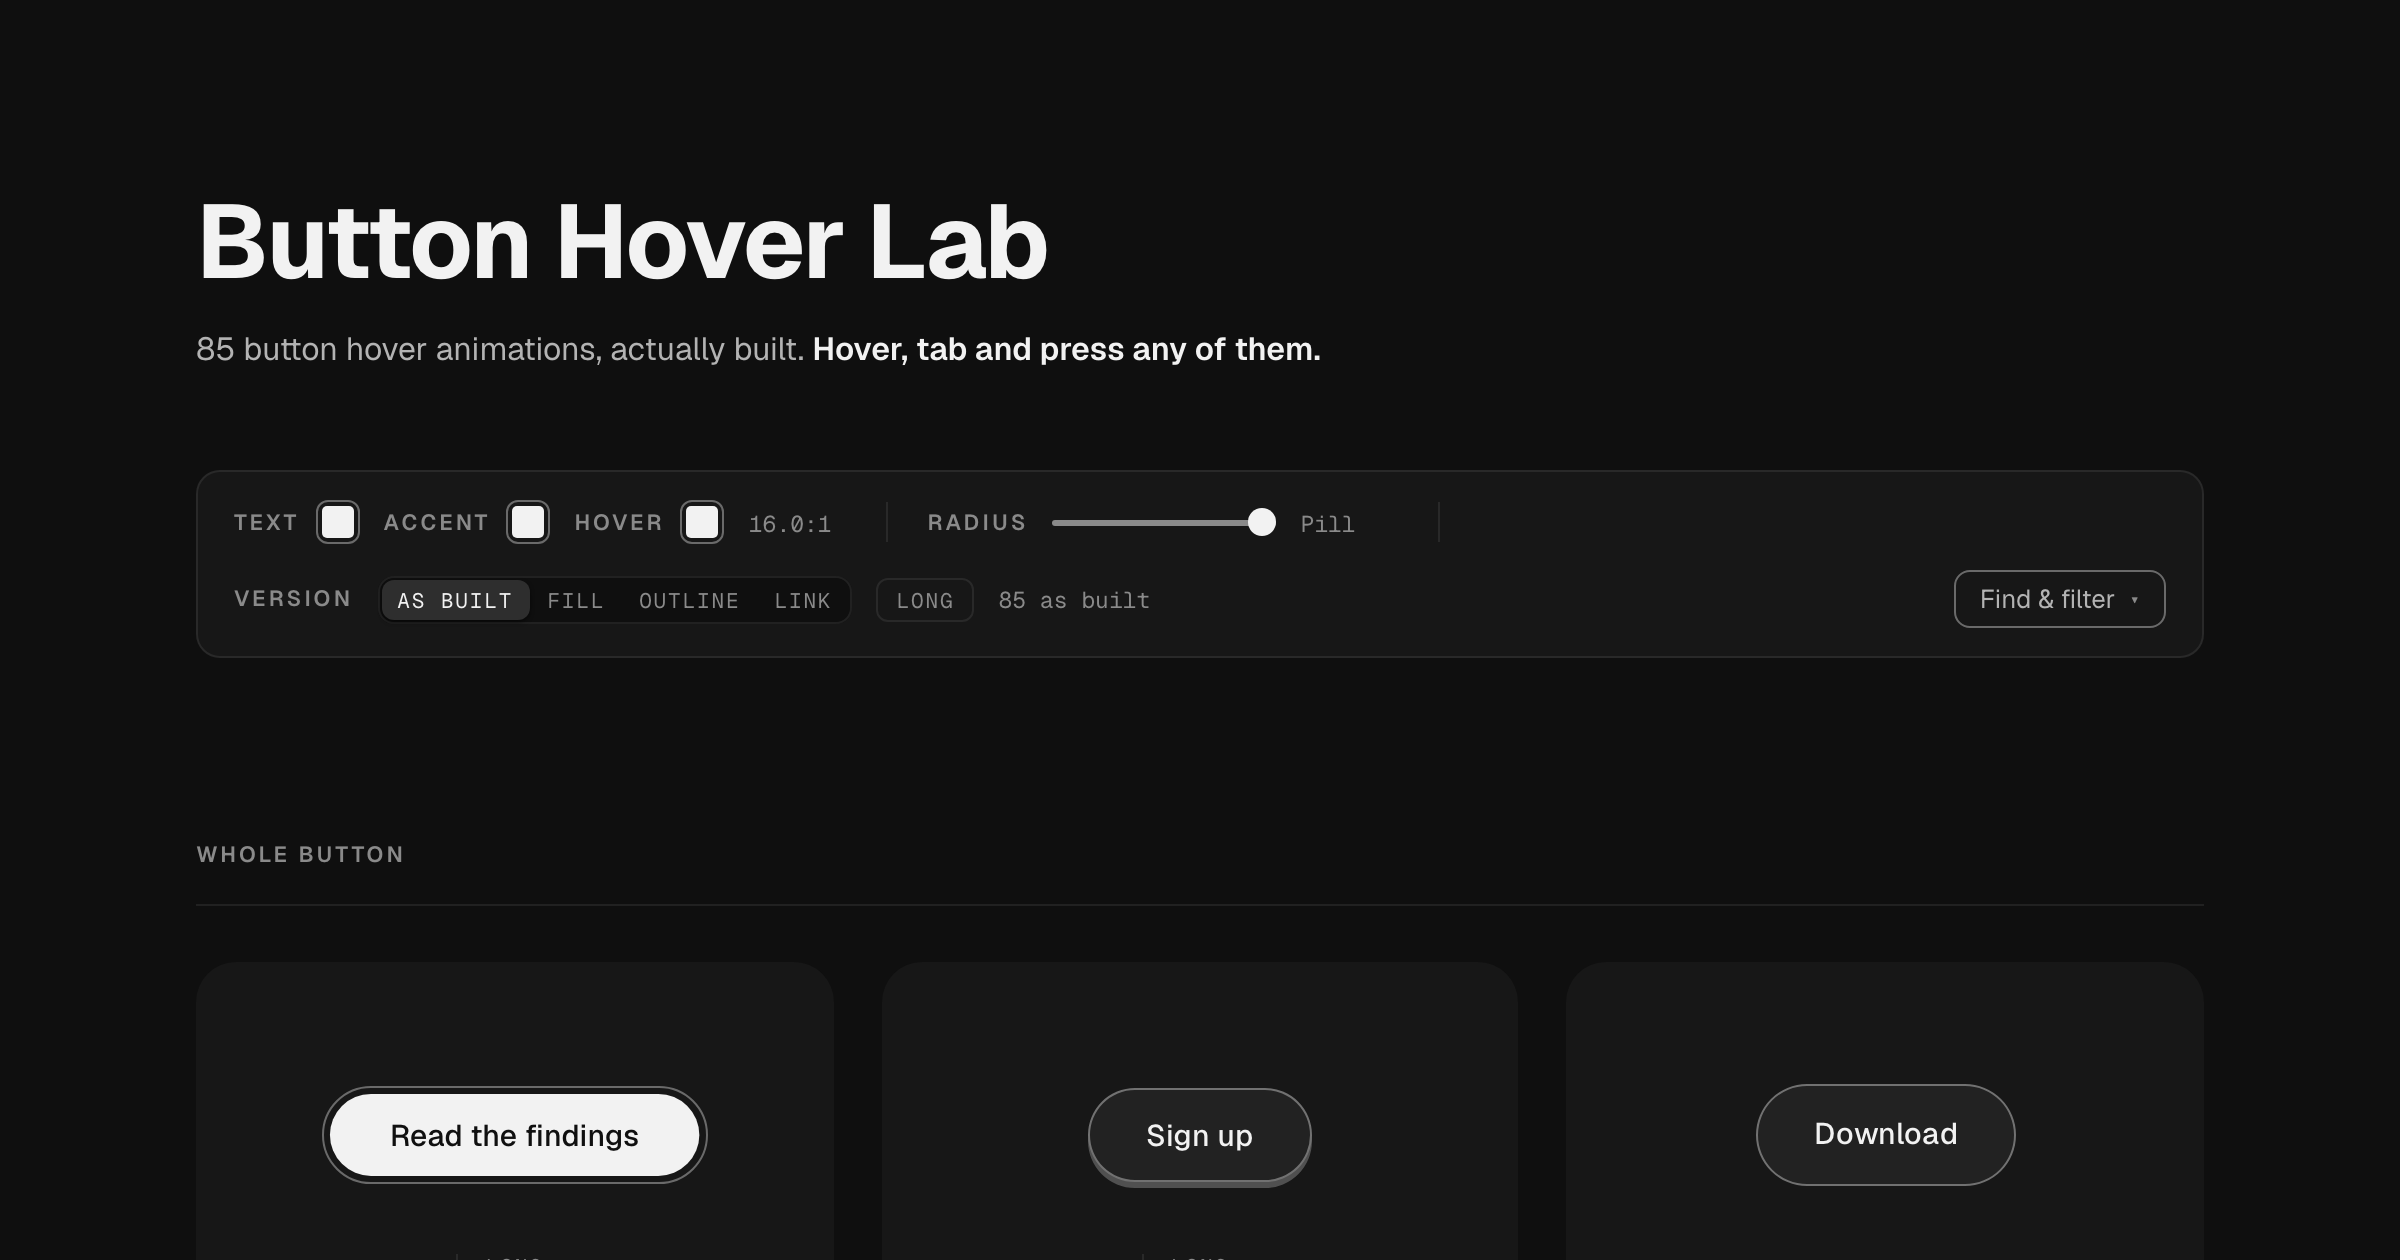
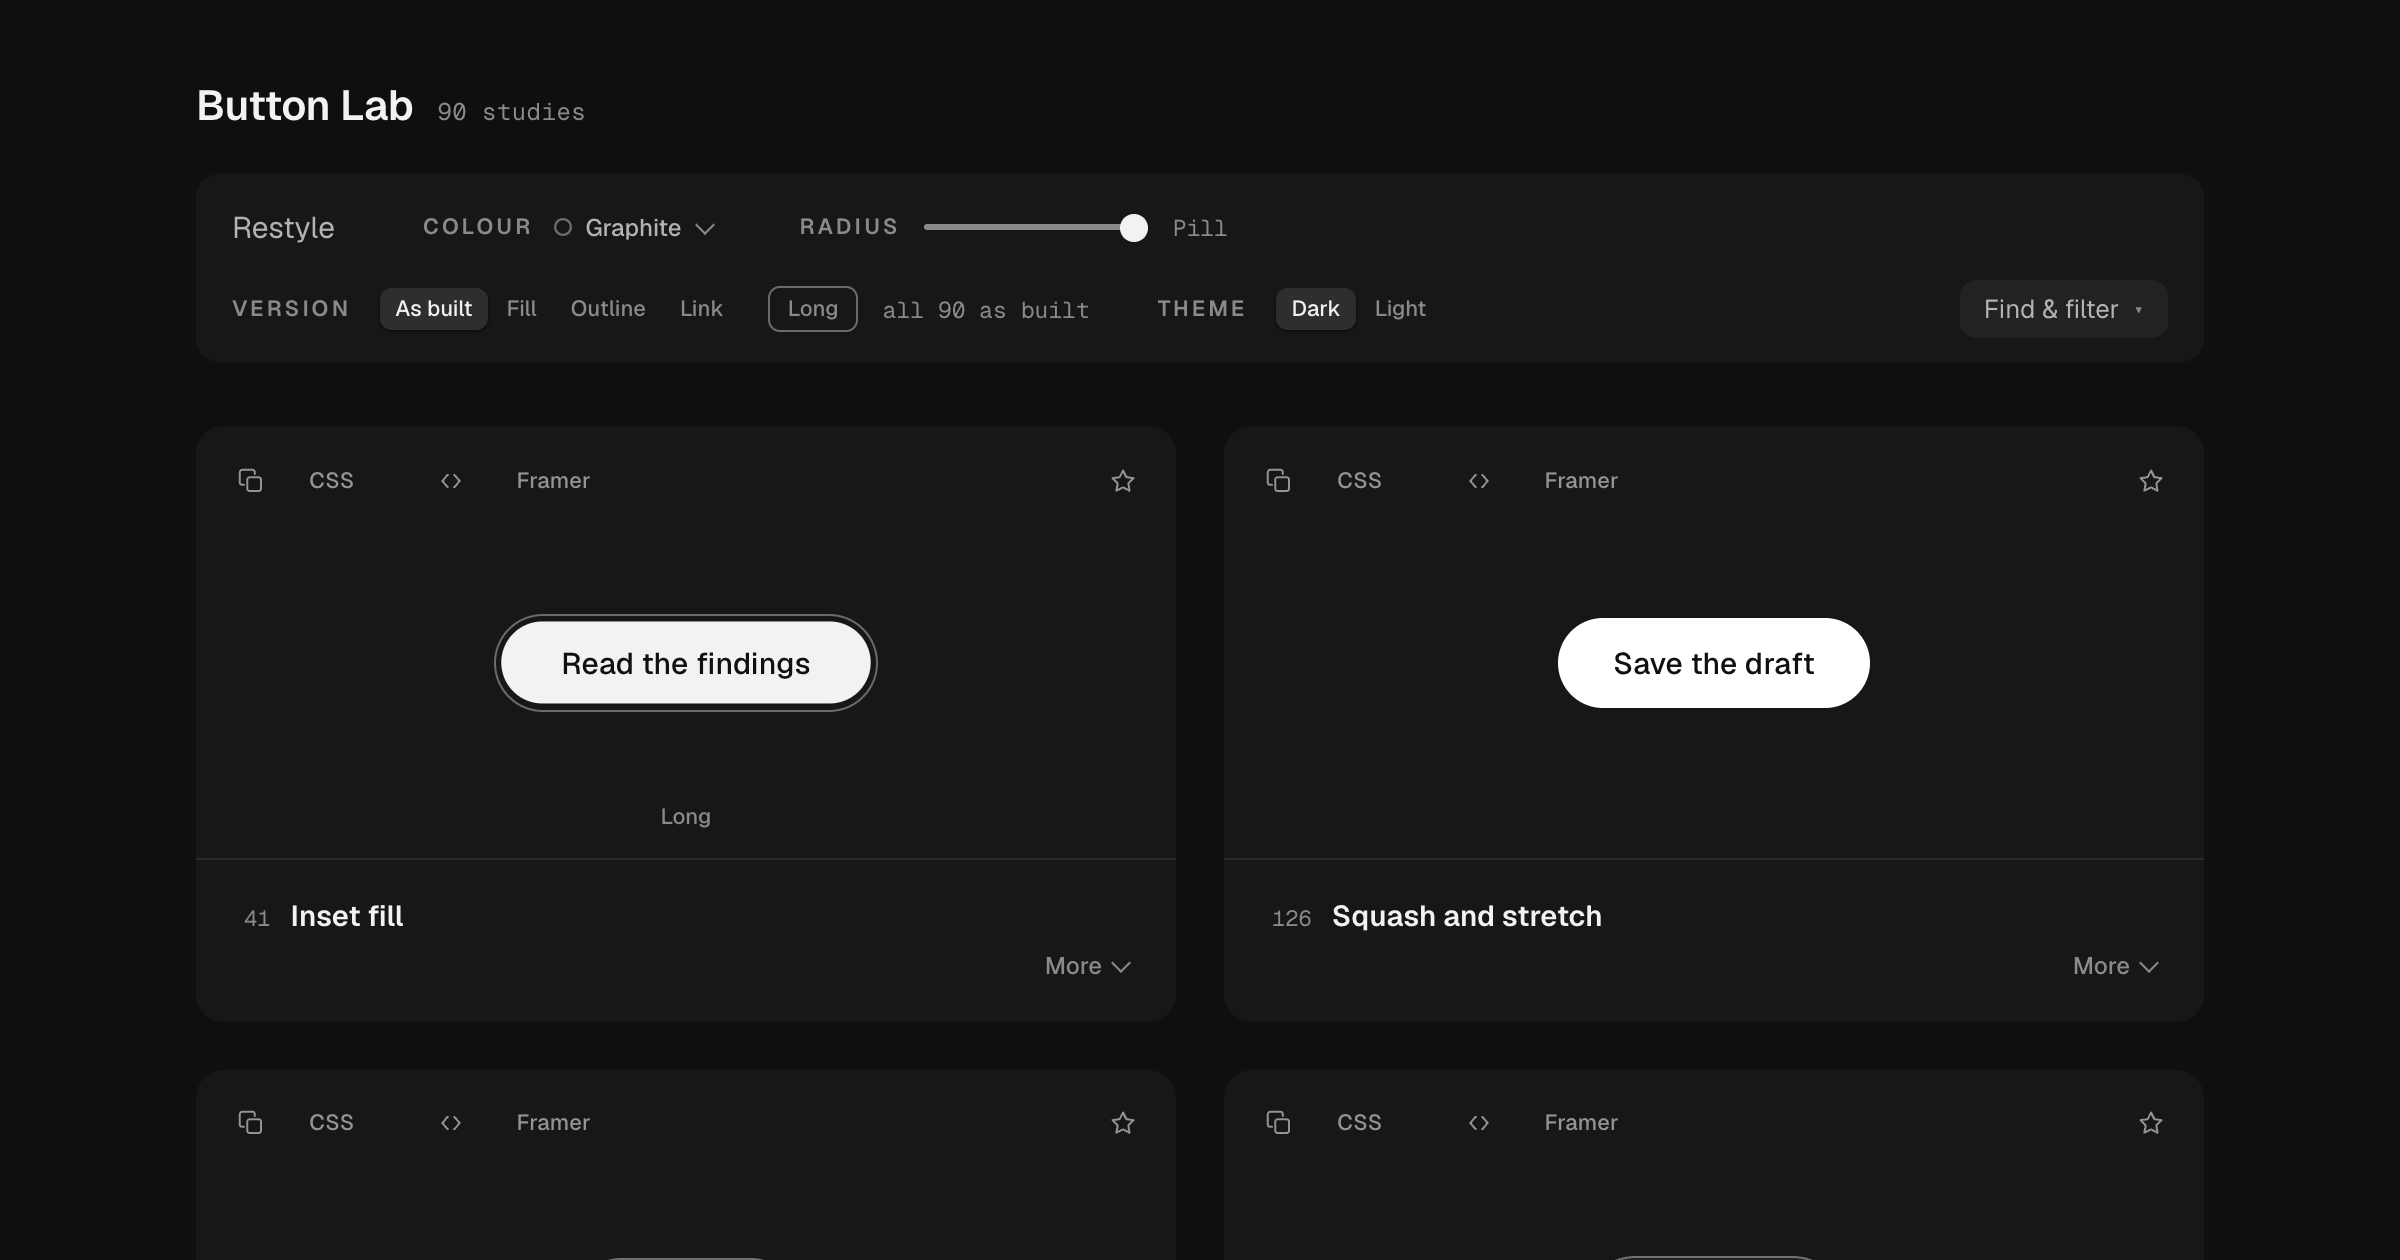
The Arqé QA fixes: the finishing of a pass that landed in 581f898
⚠ Most of this pass is NOT in this commit. A parallel session ran
`git add index.html` at 11:56 and swept the QA fixes into 581f898, whose
message names only the ripple work. What landed there, for the record:

  the dark --well (it composited to its own panel at 1.000 once the walls
  moved to --bg-0); .copy/.fav at --ink-mid .8 rather than --ink-low .34,
  which measured 1.68:1 dark and 1.60:1 light on a control carrying text;
  the card radius 20 → 14; the version segment back to one row and Long
  back to an outline instead of a fifth seated chip; the search glyph and
  the ⌘K binding; the fold handle moved to the right of the panel header;
  the section rows' chevron; the panel's one left inset; jump margins cut
  from 120/160 to 24 at ≥1360, where the toolbar they cleared is a wall;
  the empty state spanning the feed; the name kept on screen when the
  panel folds; mono 56→26 and uppercase 30→9 of the chrome's text nodes.

Here: the ⌘K chip's width cap belonged to the wrapper, not the input — it
sat 370px past the end of the field below 1360. The placeholder is a size
down from the value, because the glyph and the chip take 73 of the wall's
208px and it ran under the chip.

og.png reshot. The old one showed the deleted hero, a count of 85, the
three-swatch control and the section name «WHOLE BUTTON».

README: the count is ninety, not ninety-one — 110 retired into 09 while
this pass ran. The section table still named the twenty-one-era groups and
[…]

diff --git a/index.html b/index.html
@@ -29,8 +29,12 @@
 <meta property="og:title" content="Button Lab">
 <meta property="og:description" content="A specimen page of button hover animations, each one built and hoverable. Monochrome, layout-stable, interruptible, with notes on porting each to Framer.">
 <meta property="og:url" content="https://granqvistsanna-web.github.io/button-hover-lab/">
-<!-- The unfurl card: the header and the first three stages, captured at 1200x630@2x.
-     Reshoot it when the fold changes — it is a screenshot, not a design. -->
+<!-- The unfurl card: the masthead, the Restyle toolbar and the first two stages,
+     captured at 1200x630@2x — the toolbar shape rather than the wall, because
+     that is the layout most readers arrive in. Reshot 2026-08-30 for the console
+     redesign and the rename; the one it replaced still showed the deleted hero,
+     a count of 85, the old three-swatch control and the section name «WHOLE
+     BUTTON». Reshoot it when the fold changes — it is a screenshot, not a design. -->
 <meta property="og:image" content="https://granqvistsanna-web.github.io/button-hover-lab/og.png">
 <meta property="og:image:width" content="2400">
 <meta property="og:image:height" content="1260">
@@ -1562,7 +1566,7 @@
        search field a thousand pixels wide invites a sentence rather than the
        one word this looks for. In the panel the header is 228px and the cap
        never bites. */
-    flex:1 1 190px; min-width:0; max-width:440px;
+    flex:1 1 auto; min-width:0; width:100%;
     padding:10px 12px; border-radius:var(--r-sm);
     border:0; background:var(--bg-2);
     color:var(--ink-hi); font:400 15px/1.2 var(--font-ui);
@@ -1572,10 +1576,11 @@
      <input> has no ::before to give one to. Inline SVG as a data URI: two
      shapes, smaller than the request it would otherwise cost, and it takes
      currentColor's job from the fill written into the URI per theme below. */
-  .rail-find{position:relative; display:flex; flex:1 1 190px; min-width:0}
+  .rail-find{position:relative; display:flex; flex:1 1 190px; min-width:0;
+    max-width:440px}
   .rail-q{background-image:var(--find-glyph); background-repeat:no-repeat;
-    background-position:12px 50%; background-size:15px 15px;
-    padding-left:35px; padding-right:46px}
+    background-position:11px 50%; background-size:15px 15px;
+    padding-left:32px; padding-right:41px}
   .rail-k{
     position:absolute; right:8px; top:50%; transform:translateY(-50%);
     pointer-events:none;
@@ -1584,7 +1589,10 @@
   }
   .rail-q:hover + .rail-k{background:var(--bg-4)}
   .rail-q:focus + .rail-k{opacity:0}
-  .rail-q::placeholder{color:var(--ink-faint)}
+  /* The hint is a size down from the value. In the 288px wall the field is
+     208px and the glyph and the ⌘K chip take 73 of it, so the placeholder at
+     15px ran 6px under the chip; the typed value keeps its own size. */
+  .rail-q::placeholder{color:var(--ink-faint); font-size:13.5px}
   .rail-q:hover{background:var(--bg-3)}
   .rail-q:focus-visible{outline:2px solid var(--ink-low); outline-offset:1px}
 
@@ -1954,7 +1962,7 @@
        The top inset clears the title fixed above it. */
     .rail-head{display:grid; grid-template-columns:minmax(0,1fr) auto;
       align-items:center; gap:10px; padding:82px var(--pad-panel) 20px}
-    .rail-head .rail-q{max-width:none}
+    .rail-head .rail-find{max-width:none}
     .rail-head .fav-only{grid-column:1 / -1; justify-self:start}
     .rail-fold{
       display:grid; width:30px; height:30px; place-items:center; padding:0;
@@ -2240,7 +2248,7 @@
            can be positioned against the input rather than against the row. -->
       <div class="rail-find">
         <input class="rail-q" id="rail-q" type="search" autocomplete="off"
-               placeholder="Name, word or number">
+               placeholder="Name, word, number">
         <!-- Written by the page: ⌘ on a Mac, Ctrl everywhere else. aria-hidden
              because the shortcut is announced by nothing and read by eye. -->
         <kbd class="rail-k" aria-hidden="true">⌘K</kbd>

diff --git a/README.md b/README.md
@@ -1,6 +1,6 @@
 # Button Lab
 
-Ninety-one button hover animations, actually built. Hover, tab and press all of them.
+Ninety button hover animations, actually built. Hover, tab and press all of them.
 
 **→ [Open the lab](https://granqvistsanna-web.github.io/button-hover-lab/)**
 
@@ -16,7 +16,7 @@ script — and **`</>`** hands you the same effect as a Framer code component.
 
 ## House rules
 
-Every one of the ninety-one obeys all five:
+Every one of the ninety obeys all five:
 
 | | |
 |---|---|
@@ -24,7 +24,7 @@ Every one of the ninety-one obeys all five:
 | **Interruptible** | Hover out halfway and the animation turns smoothly from wherever it is — no waiting for it to finish. |
 | **In one way, out another** | The exit takes its own path — and its own clock, one rung down the ladder. |
 | **Reduced motion** | Everything falls back to plain colour and opacity changes. |
-| **Five durations, no more** | 83 / 133 / 200 / 300 / 450 ms — frame-quantised at 60 fps, declared as tokens, never improvised. The ladder governs the ninety-one effects; the toolbar chrome runs on the design system's own `--t-fast`. |
+| **Five durations, no more** | 83 / 133 / 200 / 300 / 450 ms — frame-quantised at 60 fps, declared as tokens, never improvised. The ladder governs the ninety effects; the toolbar chrome runs on the design system's own `--t-fast`. |
 
 And, without exception: no layout shift — every button's own box stays identical to three
 decimals, and in the group cards the row does too, the one deliberate exception being
@@ -39,16 +39,19 @@ Each group names the part of the button that performs, because that is what you 
 before you arrive: a text link has no fill to move, a button with no icon cannot relay an
 arrow, and an effect that reads the row needs a row to put it in.
 
+One word each, on one axis — the part of the button that performs:
+
 | | |
 |---|---|
-| **Whole button** | it lifts, scales, leans, settles, or answers a press |
-| **Fill** | a fill arrives or leaves |
-| **Border, corner and rule** | an outline draws, a radius changes, a rule moves |
-| **Label** | the word moves as one unit |
-| **Label, per character** | the word is split and the parts move separately |
-| **Icon** | an arrow, dot, caret, needle or dash does the work |
-| **Material and light** | the button looks like a thing — glass, metal, letterpress, grain |
-| **Buttons in a row** | siblings react to the one you are on |
+| **Plate** | the whole surface answers at once — it scales, lifts, leans, or argues with the pointer about its own weight |
+| **Fill** | a fill arrives or leaves; what differs is where from, and whether you see it travel |
+| **Edge** | the outline works and the plate holds still — an underline, a rule, a drawn border, a corner that changes shape |
+| **Label** | the word performs, as one piece and then split into its characters |
+| **Mark** | a small mark beside the label carries the gesture — an arrow travels, an icon redraws, a caret points |
+| **Material** | the button behaves like a physical thing, and hover changes the material rather than the layout |
+| **State** | these answer the click rather than the pointer, and report on it in place |
+| **Row** | siblings react to the one you are on, so the row is the unit |
+| **Compound** | two of the mechanisms above on one curve — the pairing is the study |
 
 They replaced twenty-one lettered sections, which recorded where each study was written
 rather than what it does. Half of those names were provenance — *the challengers*, *from a
@@ -68,13 +71,16 @@ cannot quietly lose a study the next time it runs.
 Search, the derived facets and the starred shortlist do the rest of the narrowing — and the
 shortlist persists in your browser.
 
-The same toolbar carries four global settings that restyle all ninety-one at once:
-**text**, **accent**, **hover** and a **button radius**. All are written as custom properties
-on the root element, which is also where the copy buttons resolve from, so a snippet copied
-with colours set carries those colours rather than the defaults they replaced.
+The **Restyle** panel on the right carries the global settings, and they restyle all ninety
+at once. Colour is a 2x2 — **text** and **button**, each at rest and on hover — plus a row of
+palettes that set all four together; then a **button radius**, a **version**, and the page
+**theme**. All are written as custom properties on the root element, which is also where the
+copy buttons resolve from, so a snippet copied with colours set carries those colours rather
+than the defaults they replaced.
 
-Three colours, because a monochrome page hides the fact that `--ink` was doing three jobs at
-once. **Text** is the label at rest, and everything that belongs to the label — card 57's
+Four cells, because a monochrome page hides the fact that `--ink` was doing three jobs at
+once — and because the fourth, the colour of the label once the hover fill has arrived under
+it, used to be computed and could not be chosen at all. **Text** is the label at rest, and everything that belongs to the label — card 57's
 underline goes with it, not with the fill that arrives behind it. **Accent** is the fill and
 the mark: `--ink` and `--accent` together. **Hover** is whatever arrives when you point at
 something. Set all three the same and the page behaves exactly as it did when there was one
@@ -90,7 +96,7 @@ has always been. The fit walks lightness in **either** direction for exactly thi
 label on a near-white accent has to go down, and the one-way walk the single-primary toolbar
 used would have sent it to white on white.
 
-**Hover reaches about twenty of the ninety-one, and that is the page's own thesis
+**Hover reaches about twenty of the ninety, and that is the page's own thesis
 showing through rather than a gap.** These effects are geometric: most of them paint their
 arriving layer at rest and animate `transform`, `clip-path` or `height`, so the colour that
 arrives is the same declaration as the fill. Which ones count was settled by reading every
